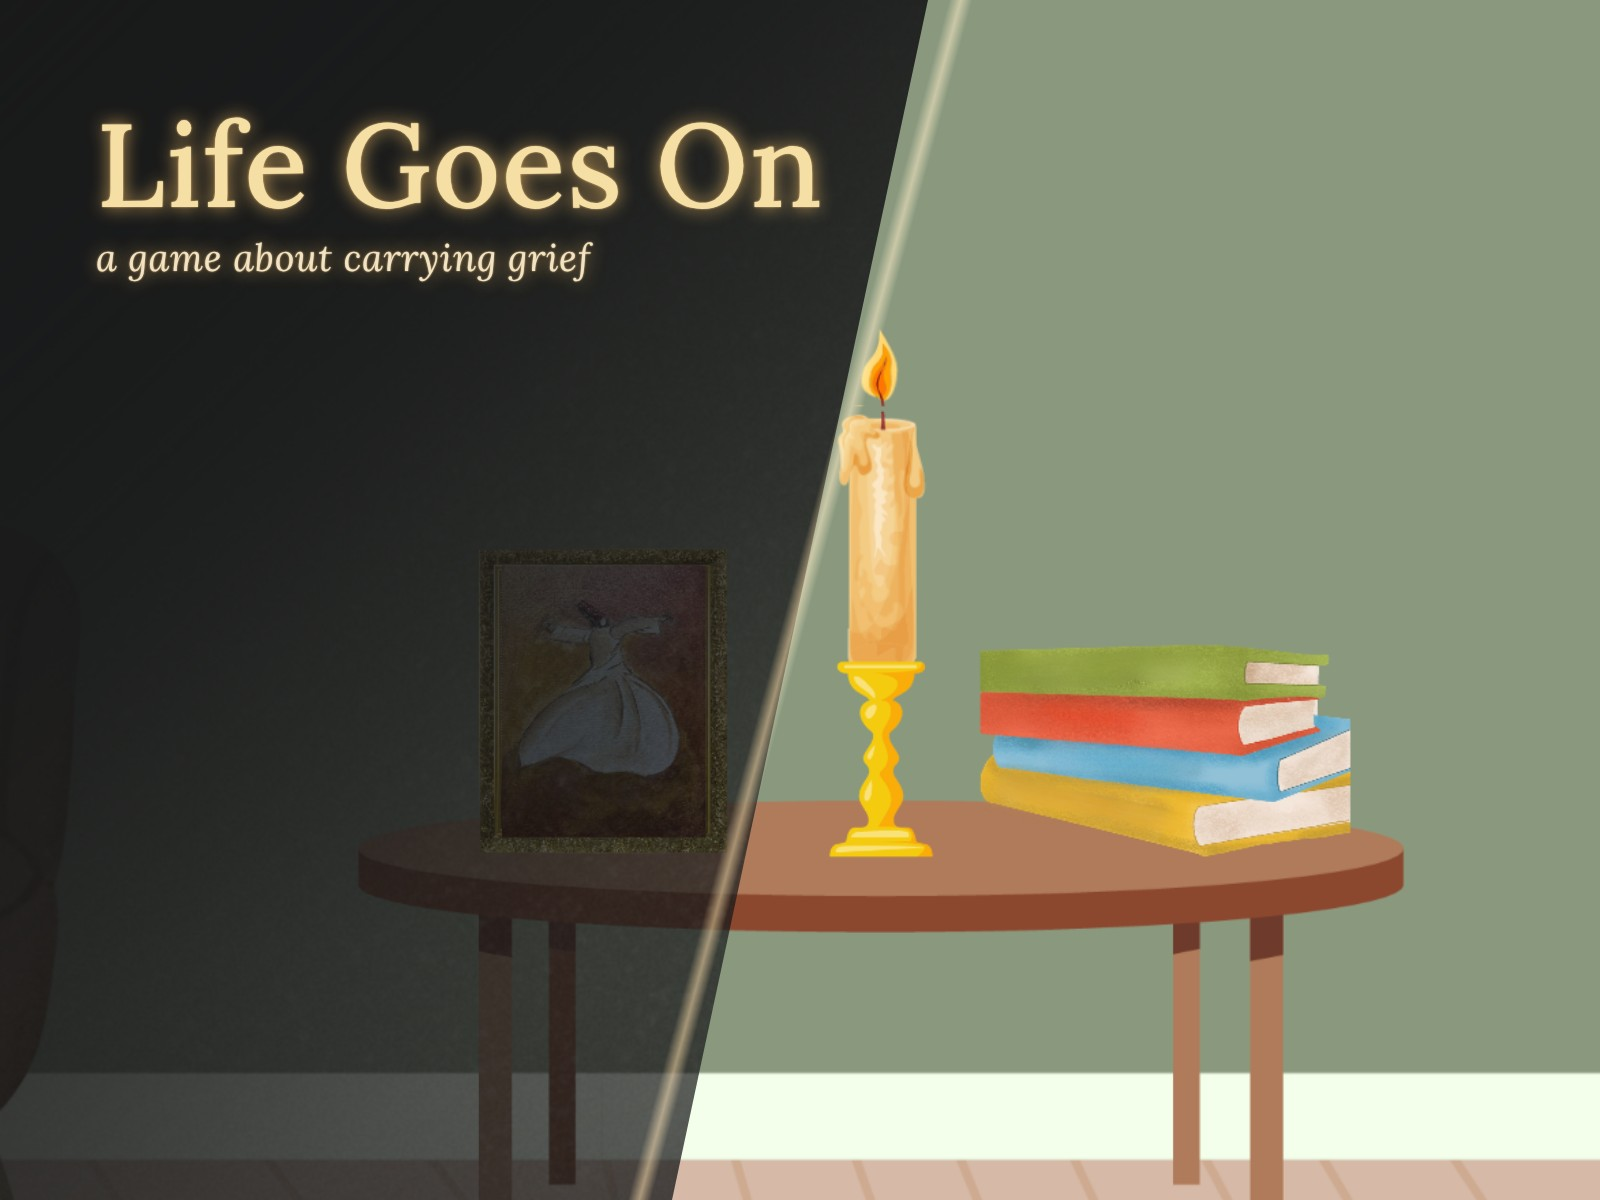
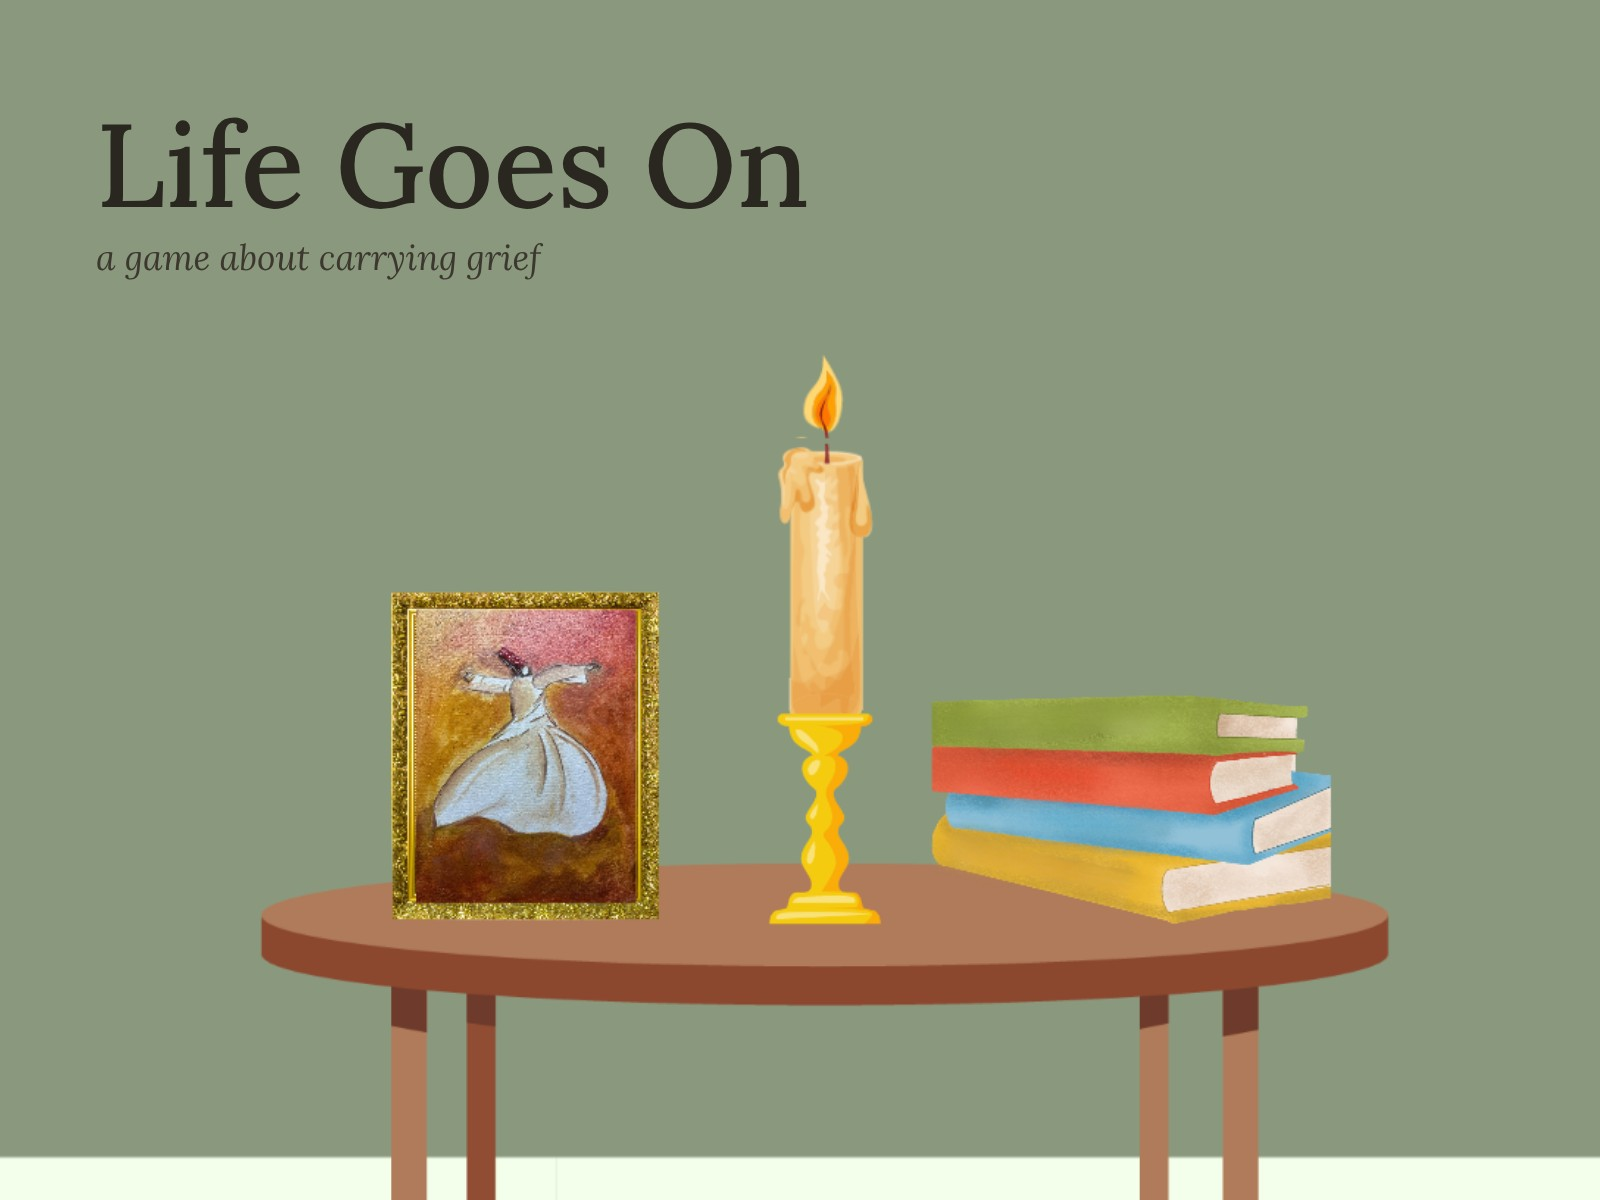
Life Goes On: clean lit-room cover, no added shadow
Claude-Session: https://claude.ai/code/session_01X2ebubxArhvCF8kViDJReJ

diff --git a/CLAUDE.md b/CLAUDE.md
@@ -205,8 +205,9 @@ Placeholder projects (all featured), covers in `src/assets/projects/<slug>/cover
    31 screens, 4 chapters, 6 puzzles). **Export Canva images with
    export_quality "pro"** — regular exports carry Canva watermarks (Afnan
    has a subscription; exported files stay clean if it lapses). Cover and
-   banner are custom key art (diagonal dark/lit split of the candle room,
-   glowing Lora title; the table spans the seam — painting in the dark half, lit candle in the warm half; NEXT button cropped out) rendered with Playwright.
+   banner: the clean lit candle room + dark Lora title on the sage wall
+   (Afnan rejected the dark/lit diagonal split — looked like added shadow;
+   do not darken her scenes), rendered with Playwright.
    Case study: Play button (Canva view link — Afnan must set the design to
    "anyone with the link") → stats → Overview → Problem (problem /
    opportunity / audience / goal) → My role → Concept: four chapter cards →
